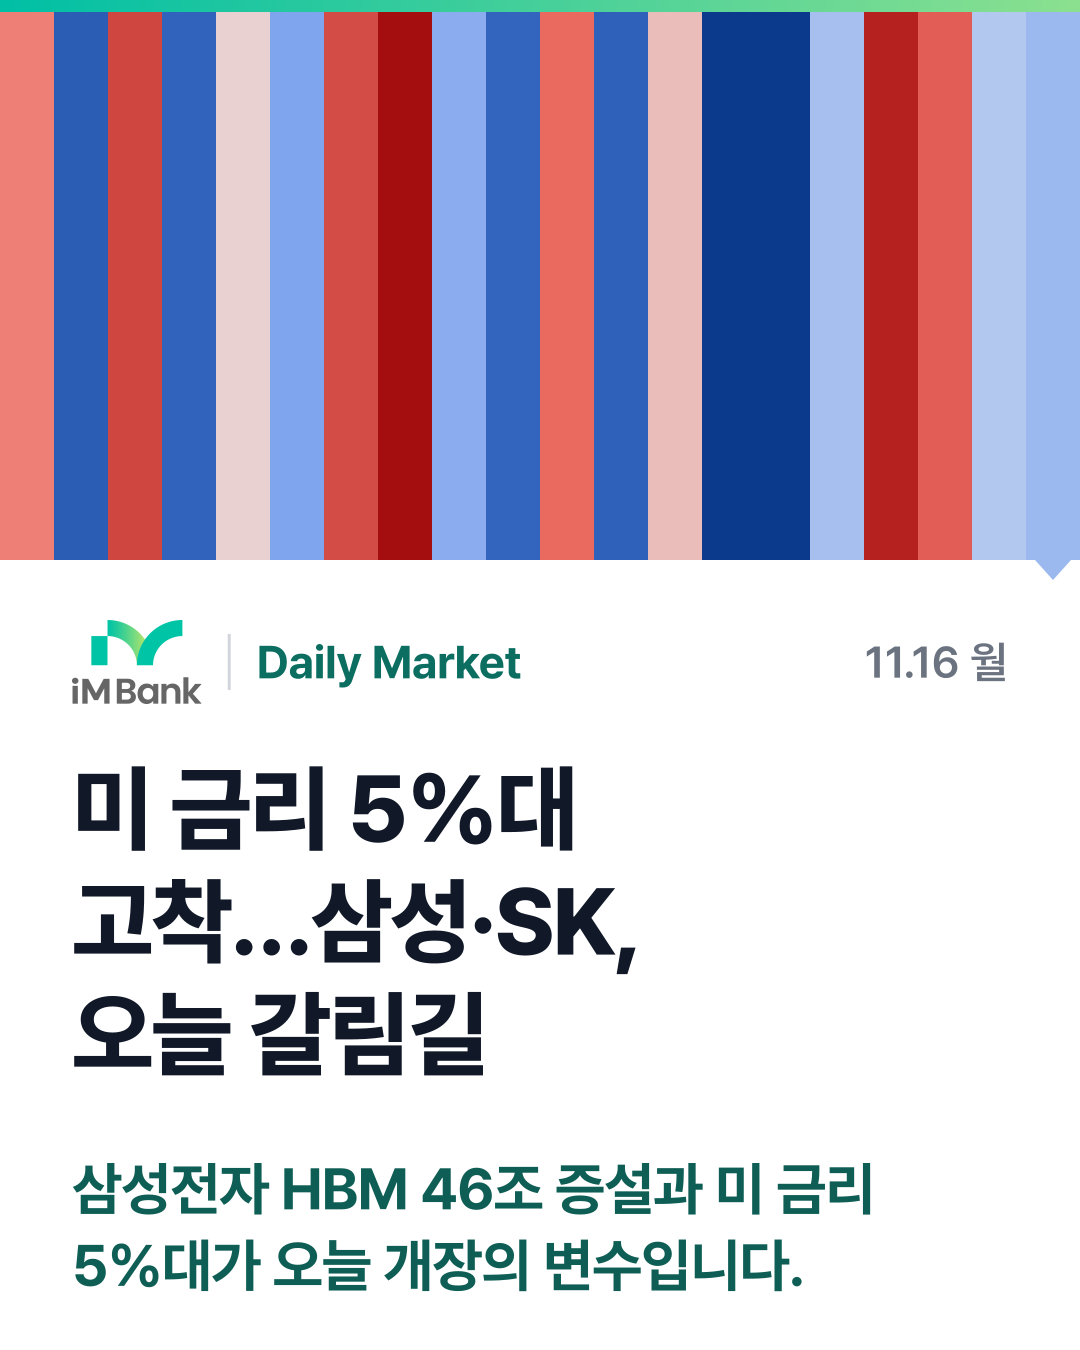
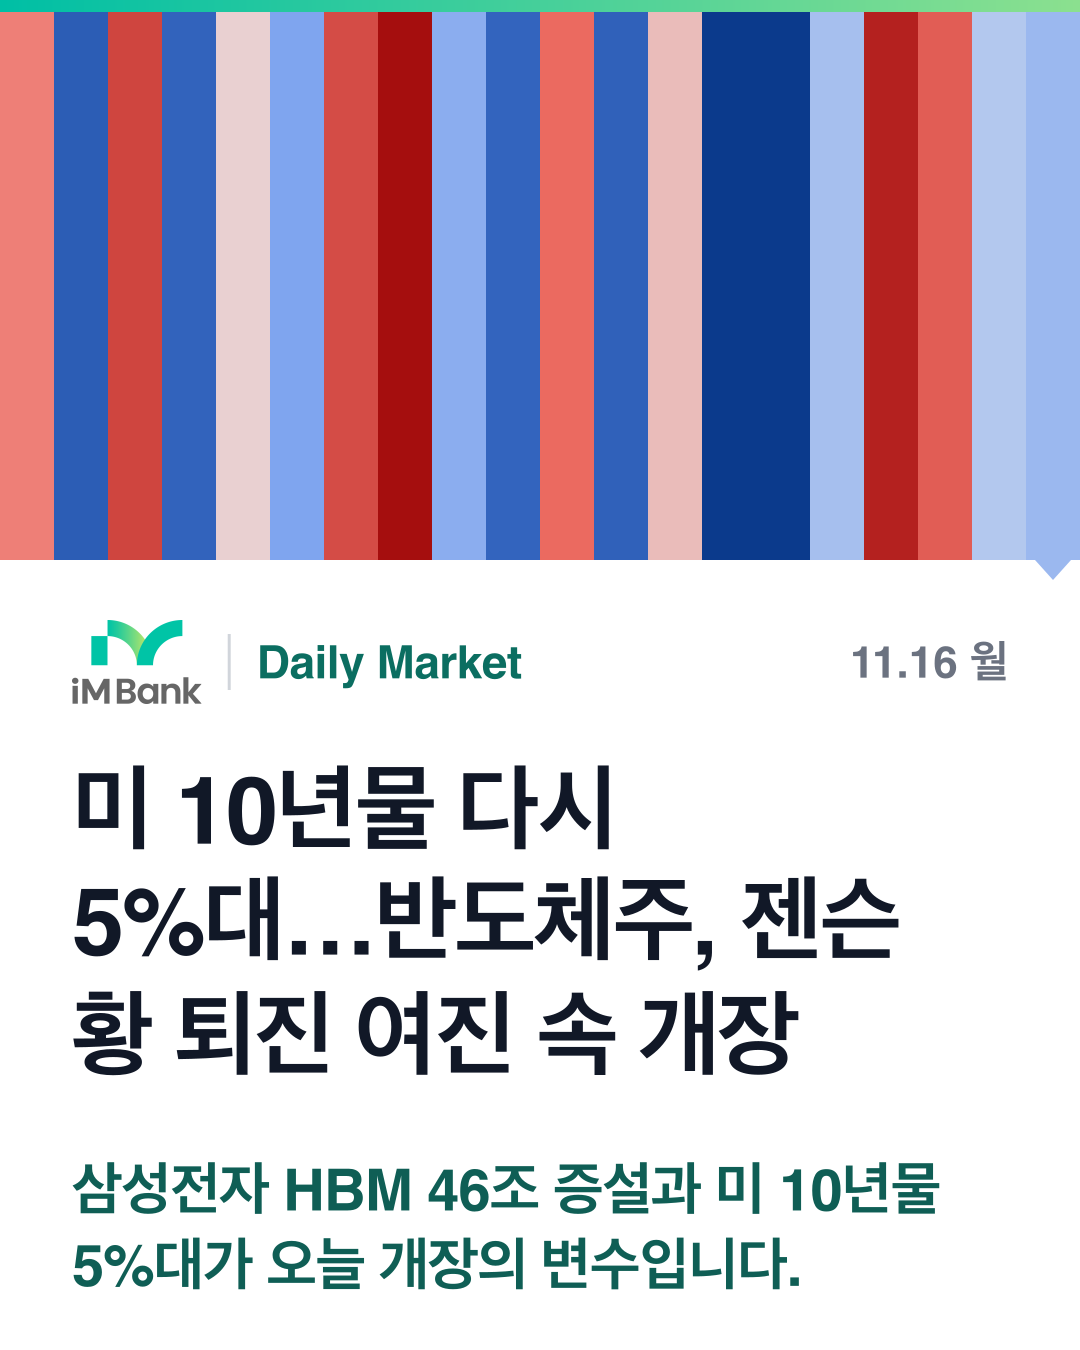
fix(report): 2026-11-16 마켓 리포트 사실 오류 정정
- 제목: '미 금리 5%대 고착…삼성·SK, 오늘 갈림길' → '미 10년물 다시 5%대…반도체주, 젠슨 황 퇴진 여진 속 개장'
  (10년물은 10-22~11-11 5% 아래였고 11-12에 재돌파 — '고착' 아님, '미 금리'는 정책금리 3.75~4.00%와 혼동)
- 요약: 나스닥 -0.91%를 '약보합' → '0.91% 하락 마감'
- 본문: 10년물 '한 주 전 대비 0.051%p' → 하루 새 0.051%p, 한 주 전(4.859%)보다 0.295%p
- 본문: 나스닥 하락 원인에 필라델피아 반도체지수 -3.43% 급락 추가
- 카드 한 줄·미리보기 PNG 재생성

Claude-Session: https://claude.ai/code/session_01VBBXTAXqYcUSAH9iqakwbV

diff --git a/public/reports/2026-11-16.html b/public/reports/2026-11-16.html
@@ -3,17 +3,17 @@
 <head>
 <meta charset="UTF-8">
 <meta name="viewport" content="width=device-width, initial-scale=1.0">
-<title>미 금리 5%대 고착…삼성·SK, 오늘 갈림길 - iM AI Market Report</title>
-<meta property="og:title" content="미 금리 5%대 고착…삼성·SK, 오늘 갈림길">
-<meta property="og:description" content="지난 금요일 나스닥이 약보합으로 마감하고 미 10년물 금리는 5.1%대로 올랐습니다.">
+<title>미 10년물 다시 5%대…반도체주, 젠슨 황 퇴진 여진 속 개장 - iM AI Market Report</title>
+<meta property="og:title" content="미 10년물 다시 5%대…반도체주, 젠슨 황 퇴진 여진 속 개장">
+<meta property="og:description" content="지난 금요일 나스닥이 0.91% 하락 마감하고 미 10년물 금리는 5.1%대로 올랐습니다.">
 <meta property="og:site_name" content="iM뱅크">
 <meta property="og:type" content="article">
 <meta property="og:image" content="https://dailyreport-eta.vercel.app/reports/2026-11-16-preview.png">
 <meta property="og:image:width" content="1080">
 <meta property="og:image:height" content="1350">
 <meta name="twitter:card" content="summary_large_image">
-<meta name="twitter:title" content="미 금리 5%대 고착…삼성·SK, 오늘 갈림길">
-<meta name="twitter:description" content="지난 금요일 나스닥이 약보합으로 마감하고 미 10년물 금리는 5.1%대로 올랐습니다.">
+<meta name="twitter:title" content="미 10년물 다시 5%대…반도체주, 젠슨 황 퇴진 여진 속 개장">
+<meta name="twitter:description" content="지난 금요일 나스닥이 0.91% 하락 마감하고 미 10년물 금리는 5.1%대로 올랐습니다.">
 <meta name="twitter:image" content="https://dailyreport-eta.vercel.app/reports/2026-11-16-preview.png">
 <style>
 /* iM AI Market Report — Standardized Template CSS */
@@ -544,13 +544,13 @@
     </header>
 
     <section class="title-block" data-section="title">
-        <h1 class="cover-headline">미 금리 5%대 고착…삼성·SK, 오늘 갈림길</h1>
+        <h1 class="cover-headline">미 10년물 다시 5%대…반도체주, 젠슨 황 퇴진 여진 속 개장</h1>
         <p class="cover-subline">지난 금요일 미 10년물 금리가 5.154%로 마감하고 나스닥이 -0.9% 밀린 가운데, 삼성전자 HBM 증설 뉴스가 개장 직전 반도체주의 방향을 가늠합니다.</p>
     </section>
 
     <section class="summary-box" data-section="summary" aria-label="세 줄 요약">
         <ul class="summary-list">
-            <li class="summary-row"><span class="summary-label">지난 금요일</span><span class="summary-text">지난 금요일 나스닥이 약보합으로 마감하고 미 10년물 금리는 5.1%대로 올랐습니다.</span></li>
+            <li class="summary-row"><span class="summary-label">지난 금요일</span><span class="summary-text">지난 금요일 나스닥이 0.91% 하락 마감하고 미 10년물 금리는 5.1%대로 올랐습니다.</span></li>
             <li class="summary-row"><span class="summary-label">오늘 볼 것</span><span class="summary-text">삼성전자 HBM 46조 증설 뉴스와 미 금리 수준이 오늘 개장 초 반도체주 방향의 핵심입니다.</span></li>
             <li class="summary-row"><span class="summary-label">내 자산은</span><a class="summary-text summary-link" href="/etf-reports/2026-11-16">자산군 세부 분석은 ETF Today에서 확인하세요. 오늘 가장 주목할 자산군은 반도체주입니다.<span class="summary-arrow" aria-hidden="true"> →</span></a></li>
         </ul>
@@ -595,7 +595,7 @@
     <section class="section" data-section="story">
         <h2 class="section-title">지난 금요일 무슨 일이 있었나</h2>
         <div class="narrative">
-                <p>지난 금요일(13일) 미국 채권 시장에서 10년물 국채 금리가 <strong>5.154%</strong>로 마감했습니다. 한 주 전 대비 0.051%p 오른 수치입니다. 30년물은 <strong>5.481%</strong>. 장기물 금리가 나란히 오르자 나스닥은 <strong>-0.91%</strong> 밀렸고, S&amp;P 500도 <strong>-0.40%</strong>로 마감했습니다. 다우존스만 소폭 양전했습니다.</p>
+                <p>지난 금요일(13일) 미국 채권 시장에서 10년물 국채 금리가 <strong>5.154%</strong>로 마감했습니다. 하루 새 0.051%p, 한 주 전(4.859%)보다 0.295%p 오른 수치입니다. 30년물은 <strong>5.481%</strong>. 장기물 금리가 오르고 필라델피아 반도체지수가 3.43% 급락하면서 나스닥은 <strong>-0.91%</strong> 밀렸고, S&amp;P 500도 <strong>-0.40%</strong>로 마감했습니다. 다우존스만 소폭 양전했습니다.</p>
                 <p>미 연준은 현재 금리 인상 국면에 있습니다. 정책금리 목표 범위는 <strong>3.75~4.00%</strong>이며, 지난 9월 0.25%p 인상 이후 추가 결정은 아직 없습니다. 10년물 금리가 정책금리를 1%p 이상 웃돌고 있다는 점은, 시장이 고금리의 장기화를 가격에 반영하고 있다는 신호로 읽힙니다. 단, 금리 수준만으로 연준의 다음 행보를 단정하기는 어렵습니다.</p>
                 <p>주말 사이 국내 반도체 업계에서 주목할 뉴스가 나왔습니다. 글로벌이코노믹에 따르면, 삼성전자가 HBM(고대역폭 메모리) 생산 능력을 <strong>46조 원</strong> 규모로 증설하는 계획을 추진 중인 것으로 전해졌습니다. 미국 투자 매체들이 2028년 가동률까지 따지며 이 계획을 들여다보고 있다는 점에서, 단기 호재보다는 중장기 공급 확대 여부를 시장이 먼저 가늠한다는 뜻입니다.</p>
                 <p>블로터에 실린 칼럼은 젠슨 황 엔비디아 최고경영자 퇴진 이후 삼성전자와 SK하이닉스 가운데 누가 더 큰 영향을 받는지를 짚었습니다. 엔비디아와의 HBM 협력 구도가 흔들릴 경우 양사에 미치는 무게가 다를 수 있다는 취지입니다. 한편 외신에 따르면 엔비디아의 경쟁사 최고경영자는 TSMC 주식을 매일이라도 사겠다고 발언한 것으로 알려졌습니다. AI 반도체 공급망을 둘러싼 경쟁 구도가 여전히 복잡하게 움직이고 있음을 보여 주는 발언입니다.</p>
